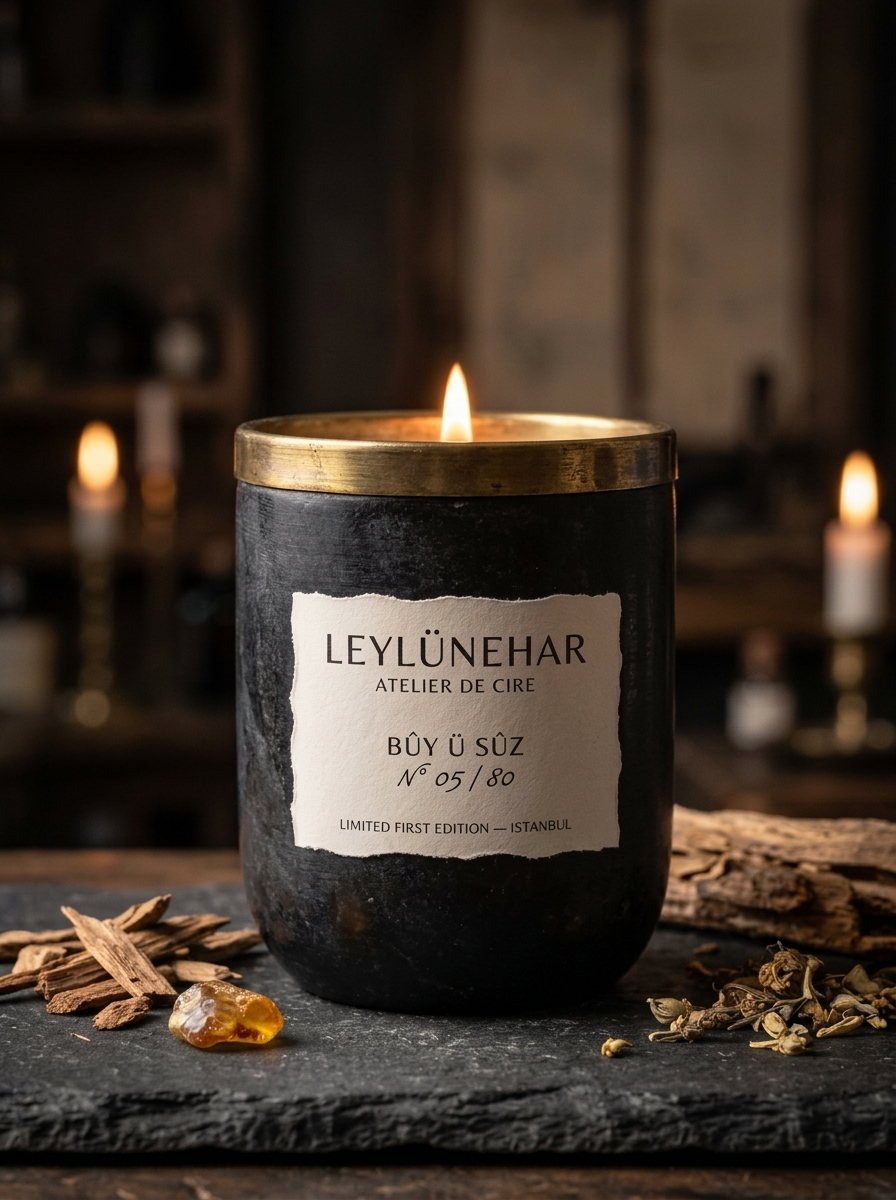
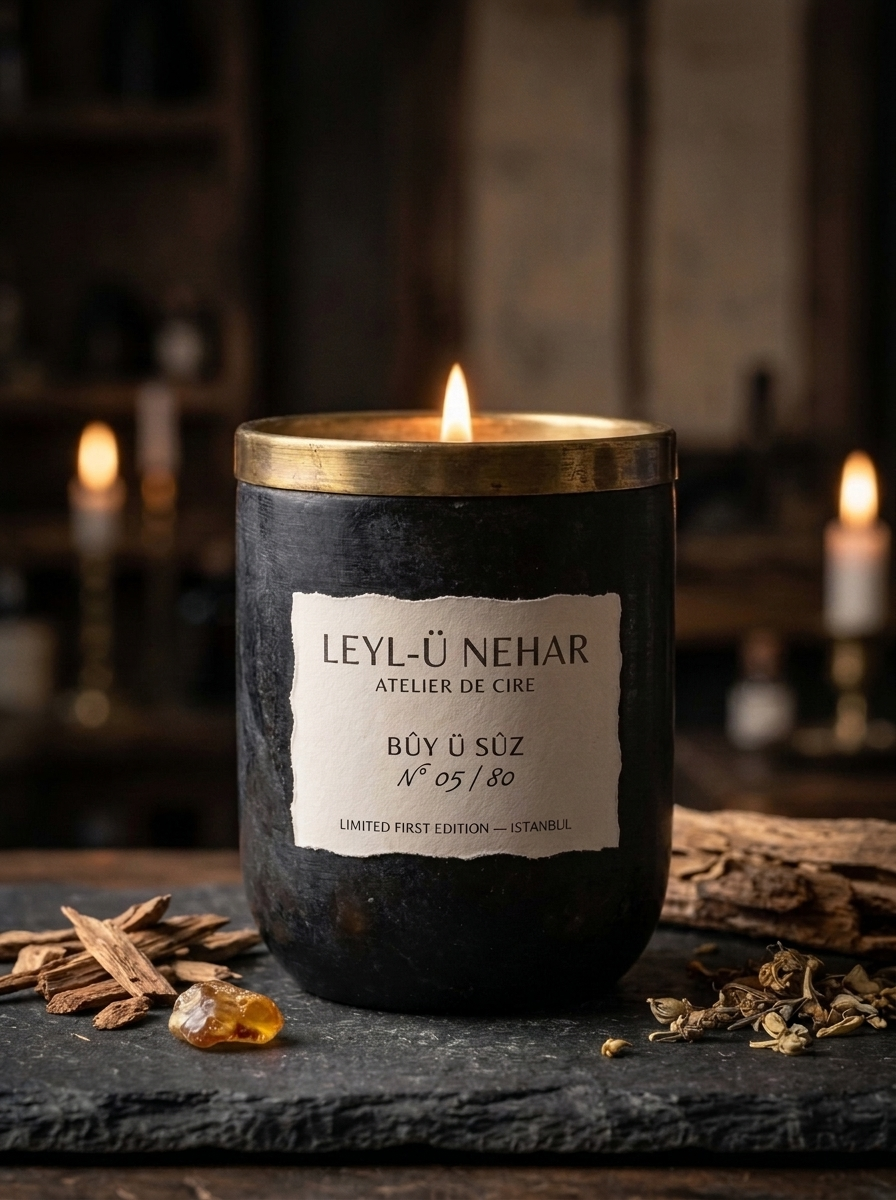
Update brand display name and all 11 product visuals to LEYL-Ü NEHAR

Changed region(s): [[0.3438, 0.5242, 0.6562, 0.555]]

diff --git a/index.html b/index.html
@@ -3,8 +3,8 @@
 <head>
   <meta charset="UTF-8" />
   <meta name="viewport" content="width=device-width, initial-scale=1.0" />
-  <title>LEYLÜNEHAR — Atelier de Parfum &amp; de Cire | İstanbul</title>
-  <meta name="description" content="Leylünehar — 17. yüzyıl İstanbul attarlığı ve Frenk atölye yalınlığıyla numaralı, tekrarsız esanslar ve el dökümü mumlar." />
+  <title>LEYL-Ü NEHAR — Atelier de Parfum &amp; de Cire | İstanbul</title>
+  <meta name="description" content="Leyl-ü Nehar — 17. yüzyıl İstanbul attarlığı ve Frenk atölye yalınlığıyla numaralı, tekrarsız esanslar ve el dökümü mumlar." />
   <link rel="preconnect" href="https://fonts.googleapis.com" />
   <link rel="preconnect" href="https://fonts.gstatic.com" crossorigin />
   <link href="https://fonts.googleapis.com/css2?family=Cinzel:wght@400;500;600&family=Cormorant+Garamond:ital,wght@0,300;0,400;0,500;0,600;1,300;1,400;1,500&family=Inter:wght@300;400;500&display=swap" rel="stylesheet" />
@@ -24,8 +24,8 @@
         <a href="#manifesto" class="nav-link">Manifesto</a>
       </nav>
 
-      <a href="#hero" class="brand-mark" aria-label="Leylünehar Ana Sayfa">
-        <span class="brand-name">LEYLÜNEHAR</span>
+      <a href="#hero" class="brand-mark" aria-label="Leyl-ü Nehar Ana Sayfa">
+        <span class="brand-name">LEYL-Ü NEHAR</span>
         <span class="brand-sub">İSTANBUL &middot; ATELIER</span>
       </a>
 
@@ -125,7 +125,7 @@
 
         <div class="hero-visual">
           <figure class="hero-frame">
-            <img src="assets/buy-u-suz.jpg" alt="Leylünehar Atelier de Parfum — Bûy ü Sûz N° 03 / 100 el dökümü esans şişesi" class="hero-img" />
+            <img src="assets/buy-u-suz.jpg?v=2" alt="Leyl-ü Nehar Atelier de Parfum — Bûy ü Sûz N° 03 / 100 el dökümü esans şişesi" class="hero-img" />
             <figcaption class="hero-caption">
               <span>BÛY Ü SÛZ</span>
               <em>N° 03 / 100 &mdash; Saf Esans</em>
@@ -160,7 +160,7 @@
           <p class="eyebrow">II. İKİ ÂLEM</p>
           <h2 class="section-title">Leyl <em>ve</em> Nehar</h2>
           <p class="section-desc">
-            Zaman ikiye ayrılır; kokunun tabiatı da öyle. Leylünehar koleksiyonu,
+            Zaman ikiye ayrılır; kokunun tabiatı da öyle. Leyl-ü Nehar koleksiyonu,
             gecenin derin reçinesi ile gündüzün serin berraklığı arasında kurulur.
           </p>
         </div>
@@ -232,7 +232,7 @@
             <p class="eyebrow">IV. ŞİŞE ANATOMİSİ &amp; MÜHÜR</p>
             <h2 class="section-title">Değişmeyen Biçim,<br /><em>Değişen Öz.</em></h2>
             <p class="section-desc">
-              Leylünehar’da her esans aynı el yapımı cam şişeye, aynı siyah boyalı mantar tıpaya
+              Leyl-ü Nehar’da her esans aynı el yapımı cam şişeye, aynı siyah boyalı mantar tıpaya
               ve aynı siyah sicim bağına emanet edilir. Değişen yalnızca iki şeydir:
               şişenin içindeki sıvının rengi ile pamuk kâğıdın ortasına düşülen isim ve numara.
             </p>
@@ -248,11 +248,11 @@
 
           <div class="craft-stage">
             <div class="stage-visual">
-              <img src="assets/buy-u-suz.jpg" alt="Seçili esans şişesi" id="craftBottleImg" class="stage-img" />
+              <img src="assets/buy-u-suz.jpg?v=2" alt="Seçili esans şişesi" id="craftBottleImg" class="stage-img" />
             </div>
             <div class="paper-cutout" aria-live="polite">
               <div class="paper-edge-top" aria-hidden="true"></div>
-              <span class="paper-brand">LEYLÜNEHAR</span>
+              <span class="paper-brand">LEYL-Ü NEHAR</span>
               <span class="paper-atelier">ATELIER DE PARFUM</span>
               <div class="paper-center">
                 <strong class="paper-name" id="paperName">BÛY Ü SÛZ</strong>
@@ -313,7 +313,7 @@
         </blockquote>
         <div class="manifesto-columns">
           <p>
-            Leylünehar, seri üretimin hızına ve gösterişçi kalabalığına karşı İstanbul’da kurulan
+            Leyl-ü Nehar, seri üretimin hızına ve gösterişçi kalabalığına karşı İstanbul’da kurulan
             sessiz bir koku ve mum atölyesidir. İlhamını 17. yüzyıl Osmanlı attarlarının reçine,
             ud ve baharatla kurduğu sabırlı terbiyeden; formunu ise eski Pera’nın Frenk atölyelerindeki
             yalın ve tavizsiz estetikten alır.
@@ -325,7 +325,7 @@
           </p>
         </div>
         <div class="manifesto-sign">
-          <span>LEYLÜNEHAR &mdash; İSTANBUL</span>
+          <span>LEYL-Ü NEHAR &mdash; İSTANBUL</span>
           <em>Est. MMXXVI</em>
         </div>
       </div>
@@ -354,7 +354,7 @@
   <footer class="site-footer">
     <div class="container footer-grid">
       <div class="footer-brand">
-        <span class="brand-name">LEYLÜNEHAR</span>
+        <span class="brand-name">LEYL-Ü NEHAR</span>
         <p>Atelier de Parfum &amp; de Cire &mdash; İstanbul</p>
       </div>
       <div class="footer-links">
@@ -369,7 +369,7 @@
       </div>
     </div>
     <div class="container footer-bottom">
-      <span>&copy; 2026 Leylünehar İstanbul. Tüm hakları saklıdır.</span>
+      <span>&copy; 2026 Leyl-ü Nehar İstanbul. Tüm hakları saklıdır.</span>
       <span>Numaralı &amp; Tekrarsız Edisyonlar</span>
     </div>
   </footer>
@@ -480,6 +480,6 @@
     </div>
   </div>
 
-  <script src="app.js?v=3"></script>
+  <script src="app.js?v=4"></script>
 </body>
 </html>

diff --git a/app.js b/app.js
@@ -14,7 +14,7 @@ const CATALOG = [
     meaning: '“Koku ve yanış; eski divan şiirinde ateşin bıraktığı iz.”',
     shortNotes: 'İsli Ud, Siyah Kehribar, Kakule, Yanık Sedir',
     description:
-      'Leylünehar’ın kurucu imzası. Koyu kehribar sıvının içinde dinlenen ham ud odunu ve kurutulmuş baharat çiçekleri, zamanla şişenin karakterini derinleştirir.',
+      'Leyl-ü Nehar’ın kurucu imzası. Koyu kehribar sıvının içinde dinlenen ham ud odunu ve kurutulmuş baharat çiçekleri, zamanla şişenin karakterini derinleştirir.',
     topNotes: 'Siyah Kakule, Tütsülenmiş Karabiber, Acı Bergamot',
     heartNotes: 'İsli Ud Odunu, Yanık Sedir, Kuru Karanfil',
     baseNotes: 'Siyah Kehribar, Ladin Reçinesi, Eski Deri',
@@ -356,7 +356,7 @@ function createProductCard(item) {
 
   card.innerHTML = `
     <div class="product-media">
-      <img src="${item.image}" alt="Leylünehar ${item.name} — ${item.edition}" loading="lazy" />
+      <img src="${item.image}?v=2" alt="Leyl-ü Nehar ${item.name} — ${item.edition}" loading="lazy" />
       <div class="media-badges">
         <span class="status-badge ${isArchived ? 'status-archived' : 'status-available'}">${item.statusText}</span>
         <span class="realm-pill">${item.realmLabel}</span>
@@ -466,8 +466,8 @@ function initCraftInspector() {
 function updateCraftStage(item) {
   craftBottleImg.style.opacity = '0.35';
   setTimeout(() => {
-    craftBottleImg.src = item.image;
-    craftBottleImg.alt = `Leylünehar ${item.name} — ${item.edition}`;
+    craftBottleImg.src = `${item.image}?v=2`;
+    craftBottleImg.alt = `Leyl-ü Nehar ${item.name} — ${item.edition}`;
     craftBottleImg.style.opacity = '1';
   }, 150);
 
@@ -529,7 +529,7 @@ function openDetailModal(id) {
 
   detailContent.innerHTML = `
     <div class="detail-image-col">
-      <img src="${item.image}" alt="Leylünehar ${item.name}" />
+      <img src="${item.image}?v=2" alt="Leyl-ü Nehar ${item.name}" />
     </div>
     <div class="detail-info-col">
       <p class="eyebrow">${item.category === 'essence' ? 'ATELIER DE PARFUM' : 'ATELIER DE CIRE'} &middot; ${item.realmLabel.toUpperCase()} SERİSİ</p>
@@ -648,7 +648,7 @@ reservationForm.addEventListener('submit', (e) => {
   receiptName.textContent = `${name} · ${city}`;
 
   const waText = encodeURIComponent(
-    `Merhaba Leylünehar Atölyesi,\n\n` +
+    `Merhaba Leyl-ü Nehar Atölyesi,\n\n` +
       `Referans: ${code}\n` +
       `Talep Türü: ${type}\n` +
       `Edisyon: ${selectedItem ? `${selectedItem.name} (${selectedItem.edition})` : ''}\n` +

diff --git a/etiket-sablonu.html b/etiket-sablonu.html
@@ -3,7 +3,7 @@
 <head>
   <meta charset="UTF-8" />
   <meta name="viewport" content="width=device-width, initial-scale=1.0" />
-  <title>LEYLÜNEHAR — A4 Baskıya Hazır Etiket &amp; Kart Şablonu</title>
+  <title>LEYL-Ü NEHAR — A4 Baskıya Hazır Etiket &amp; Kart Şablonu</title>
   <link rel="preconnect" href="https://fonts.googleapis.com" />
   <link rel="preconnect" href="https://fonts.gstatic.com" crossorigin />
   <link href="https://fonts.googleapis.com/css2?family=Cinzel:wght@400;500;600&family=Cormorant+Garamond:ital,wght@0,400;0,500;1,400;1,500&family=Inter:wght@300;400;500&display=swap" rel="stylesheet" />
@@ -337,7 +337,7 @@
     <div class="toolbar-inner">
       <div class="toolbar-top">
         <div class="toolbar-brand">
-          <h1>LEYLÜNEHAR</h1>
+          <h1>LEYL-Ü NEHAR</h1>
           <span>A4 Baskı &amp; Etiket Şablonu</span>
         </div>
         <div class="toolbar-actions">
@@ -458,7 +458,7 @@
         cell.className = 'label-cell';
         cell.innerHTML = `
           <div class="lbl-top">
-            <div class="lbl-brand">LEYLÜNEHAR</div>
+            <div class="lbl-brand">LEYL-Ü NEHAR</div>
             <div class="lbl-atelier">${cfg.atelier}</div>
           </div>
           <div class="lbl-center">${centerHtml}</div>
